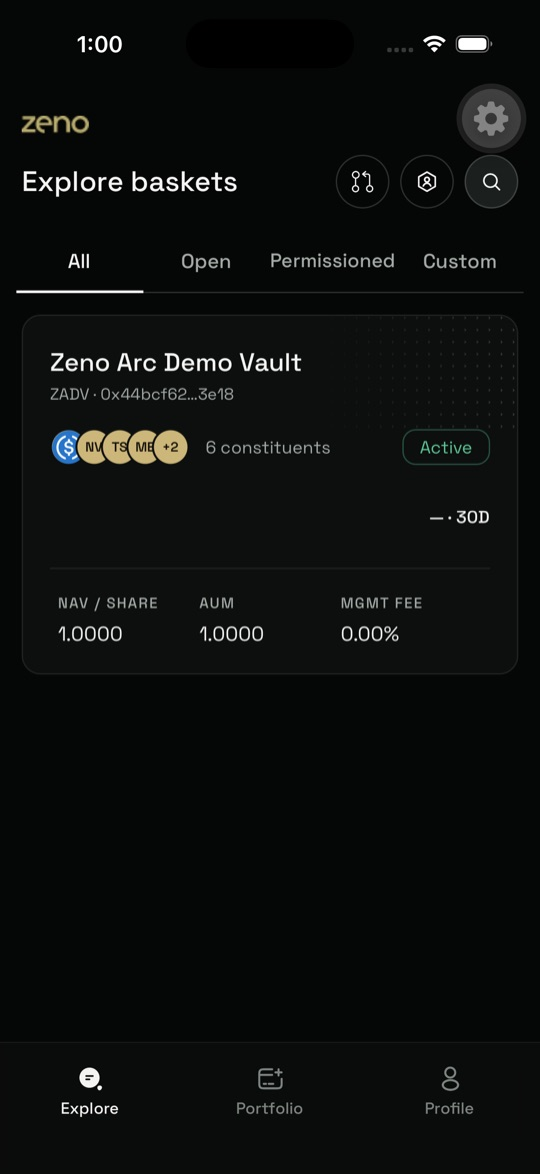
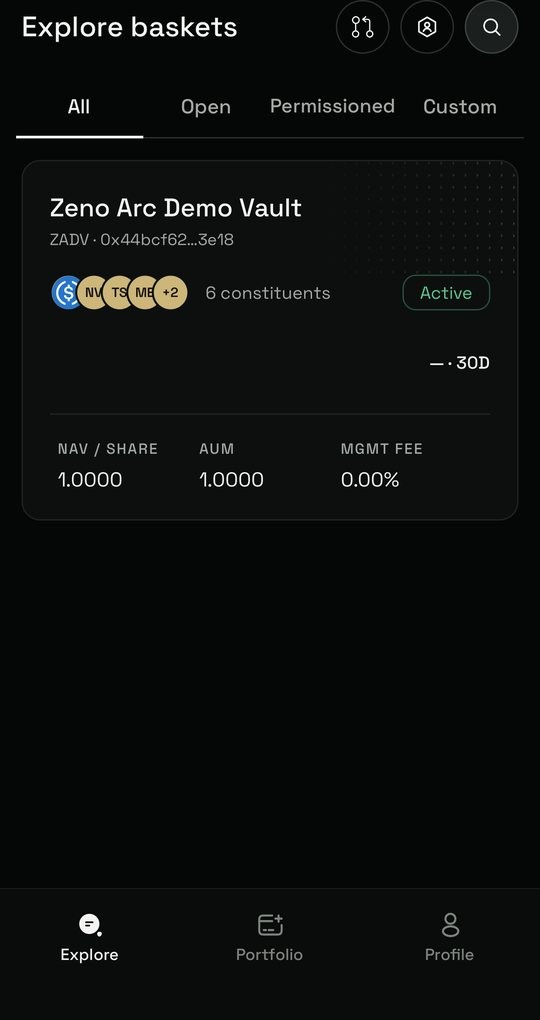
fix(website): crop app screenshots below the status bar
The phone screenshots showed the Expo dev-client "Tools" button, which only
exists in debug builds. Crop them below the status bar and update the
image size attributes.

diff --git a/website/index.html b/website/index.html
@@ -42,8 +42,8 @@
         <p class="fine">Android APK for Arc testnet. Testnet USDC only: no real money.</p>
       </div>
       <div class="phones" aria-hidden="true">
-        <img class="phone p1" src="/assets/screen-explore.jpg" alt="" width="540" height="1174">
-        <img class="phone p2" src="/assets/screen-invest.jpg" alt="" width="540" height="1174">
+        <img class="phone p1" src="/assets/screen-explore.jpg" alt="" width="540" height="1020">
+        <img class="phone p2" src="/assets/screen-invest.jpg" alt="" width="540" height="1020">
       </div>
     </section>
 
@@ -90,10 +90,10 @@
         <article class="card"><h3>App</h3><p>Explore baskets, invest and redeem as an investor; switch to Manager Mode to create a basket, set weights, seed it and claim fees. Signing stays in your wallet.</p></article>
       </div>
       <div class="gallery">
-        <figure><img src="/assets/screen-explore.jpg" alt="Explore baskets screen" loading="lazy" width="540" height="1174"><figcaption>Explore</figcaption></figure>
-        <figure><img src="/assets/screen-invest.jpg" alt="Invest preview with network fee" loading="lazy" width="540" height="1174"><figcaption>Invest</figcaption></figure>
-        <figure><img src="/assets/screen-redeem.jpg" alt="Redeem preview with exit fee" loading="lazy" width="540" height="1174"><figcaption>Redeem</figcaption></figure>
-        <figure><img src="/assets/screen-manager.jpg" alt="Manager create basket screen" loading="lazy" width="540" height="1174"><figcaption>Manager Mode</figcaption></figure>
+        <figure><img src="/assets/screen-explore.jpg" alt="Explore baskets screen" loading="lazy" width="540" height="1020"><figcaption>Explore</figcaption></figure>
+        <figure><img src="/assets/screen-invest.jpg" alt="Invest preview with network fee" loading="lazy" width="540" height="1020"><figcaption>Invest</figcaption></figure>
+        <figure><img src="/assets/screen-redeem.jpg" alt="Redeem preview with exit fee" loading="lazy" width="540" height="1020"><figcaption>Redeem</figcaption></figure>
+        <figure><img src="/assets/screen-manager.jpg" alt="Manager create basket screen" loading="lazy" width="540" height="1020"><figcaption>Manager Mode</figcaption></figure>
       </div>
     </section>
 
